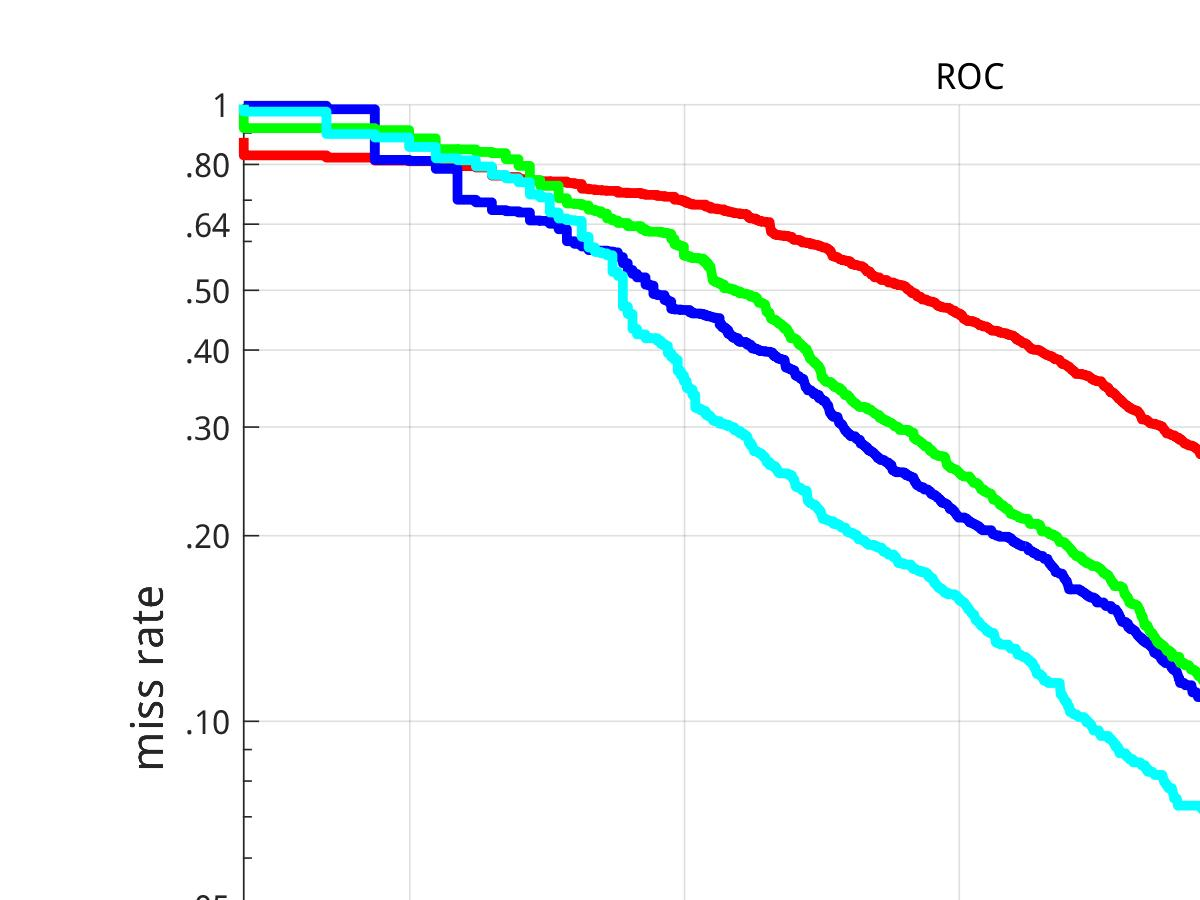
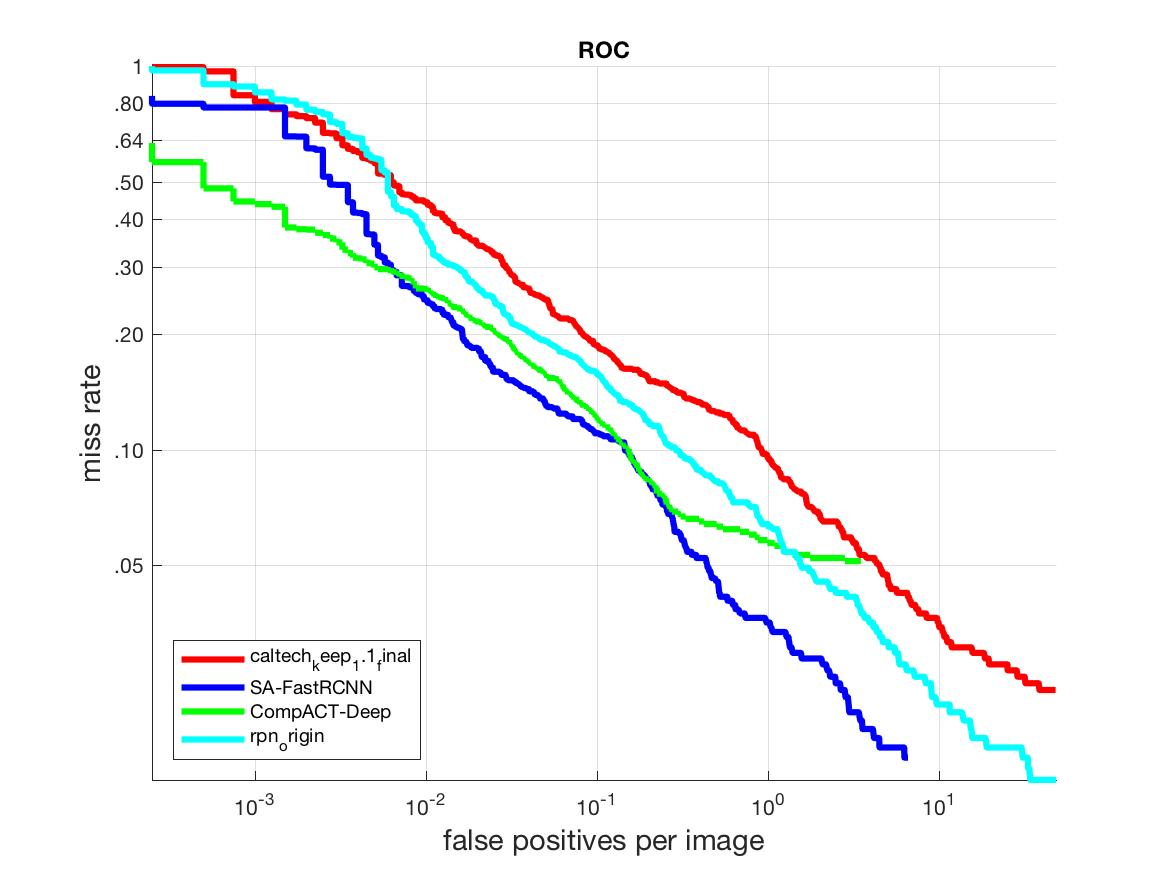
u

diff --git a/evaCaltech.m b/evaCaltech.m
@@ -5,9 +5,9 @@ addpath(p);
 clear all
 close all
 resDir = '../../DATA/Caltech/res/';
-resfiles = {'ev-Reasonable-ACF-Caltech.mat',...
-            'ev-caltech_keep_1.1.mat',...
-            'ev-caltech_keep_1.5.mat',...
+resfiles = {'ev-caltech_keep_1.1_final.mat',...
+            'ev-Reasonable-SA-FastRCNN.mat',...
+            'ev-Reasonable-CompACT-Deep.mat',...
             'ev-rpn_origin.mat'};
 types = {'r-','b-','g-','c-'};
 
